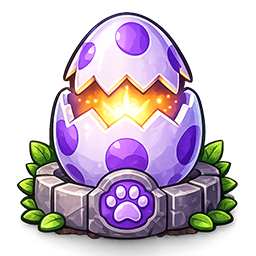
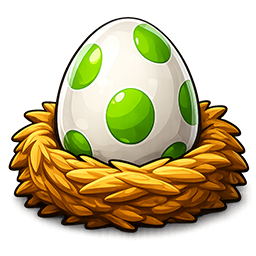
changed

diff --git a/index.html b/index.html
@@ -38,9 +38,9 @@ html,body{height:100%;background:#000;display:flex;justify-content:center;font-f
 .pet-pos.locked .ppi{opacity:0.2;}
 /* Equipped pets står fritt på scenen (ingen ring), större + skugga (v6.82) */
 .pet-pos.has-pet .ppi{background:none;border:none;overflow:visible;cursor:pointer;}
-.pp-pet{position:absolute;left:50%;bottom:7px;transform:translateX(-50%);font-size:3.4rem;line-height:1;z-index:2;filter:drop-shadow(0 2px 3px rgba(0,0,0,0.45));pointer-events:none;}
+.pp-pet{position:absolute;left:50%;bottom:-3px;transform:translateX(-50%);font-size:3.9rem;line-height:1;z-index:2;filter:drop-shadow(0 2px 3px rgba(0,0,0,0.45));pointer-events:none;}
 .pp-pet img{width:1em;height:1em;object-fit:contain;display:block;}
-.pp-shadow{position:absolute;left:50%;bottom:3px;transform:translateX(-50%);width:32px;height:9px;border-radius:50%;background:radial-gradient(ellipse,rgba(0,0,0,0.5),transparent 72%);z-index:1;pointer-events:none;}
+.pp-shadow{position:absolute;left:50%;bottom:-7px;transform:translateX(-50%);width:37px;height:10px;border-radius:50%;background:radial-gradient(ellipse,rgba(0,0,0,0.5),transparent 72%);z-index:1;pointer-events:none;}
 #egg-stage{position:absolute;bottom:78px;left:50%;transform:translateX(-50%) scale(1.5);transform-origin:bottom center;width:140px;height:160px;display:flex;align-items:center;justify-content:center;cursor:pointer;z-index:6;touch-action:manipulation;-webkit-tap-highlight-color:transparent;user-select:none;-webkit-user-select:none;}
 #egg-glow{position:absolute;width:115px;height:135px;border-radius:50% 50% 50% 50%/60% 60% 40% 40%;background:radial-gradient(ellipse at center,rgba(255,255,255,0.8) 0%,rgba(255,255,255,0.25) 35%,transparent 70%);animation:pulse 2.4s ease-in-out infinite;pointer-events:none;z-index:1;}
 #egg-glow2{position:absolute;width:160px;height:180px;border-radius:50% 50% 50% 50%/60% 60% 40% 40%;background:radial-gradient(ellipse at center,rgba(160,80,255,0.45) 0%,rgba(120,40,220,0.2) 40%,transparent 70%);animation:pulse2 3s ease-in-out infinite;pointer-events:none;z-index:1;}
@@ -3475,7 +3475,7 @@ function addTestCharms(){G.rerollCharms=(G.rerollCharms||0)+10;if(typeof updateH
 // ===== DEV-MENY (flytande DEV-knapp) — tas bort innan release =====
 function applyPedestalVisibility(){
   var p=document.getElementById('pedestal-img');
-  if(p)p.style.display=(G.settings&&G.settings.hidePedestal)?'none':'block';
+  if(p)p.style.display='none';
 }
 function togglePedestal(){
   if(!G.settings)G.settings={};
@@ -6102,7 +6102,7 @@ function renderSettings(){
     '<button class="set-action-btn red" onclick="resetFromSettings()">🗑 Reset Game <span style="font-size:0.65rem;opacity:0.85">(Local Data)</span></button>'+
     '</div>';
 
-  b.innerHTML=tabs+'<div class="set-content">'+c+actions+'<div class="set-about">Pet Planet — v6.82<br>An idle pet collection game · Made with 💜</div></div>';
+  b.innerHTML=tabs+'<div class="set-content">'+c+actions+'<div class="set-about">Pet Planet — v6.83<br>An idle pet collection game · Made with 💜</div></div>';
   // Mushjul → horisontell scroll på flik-raden (för dator; touch-svep funkar redan på mobil)
   var stbar=b.querySelector('.set-tabs');
   if(stbar){stbar.addEventListener('wheel',function(e){if(e.deltaY!==0&&stbar.scrollWidth>stbar.clientWidth){e.preventDefault();stbar.scrollLeft+=e.deltaY;}},{passive:false});}
